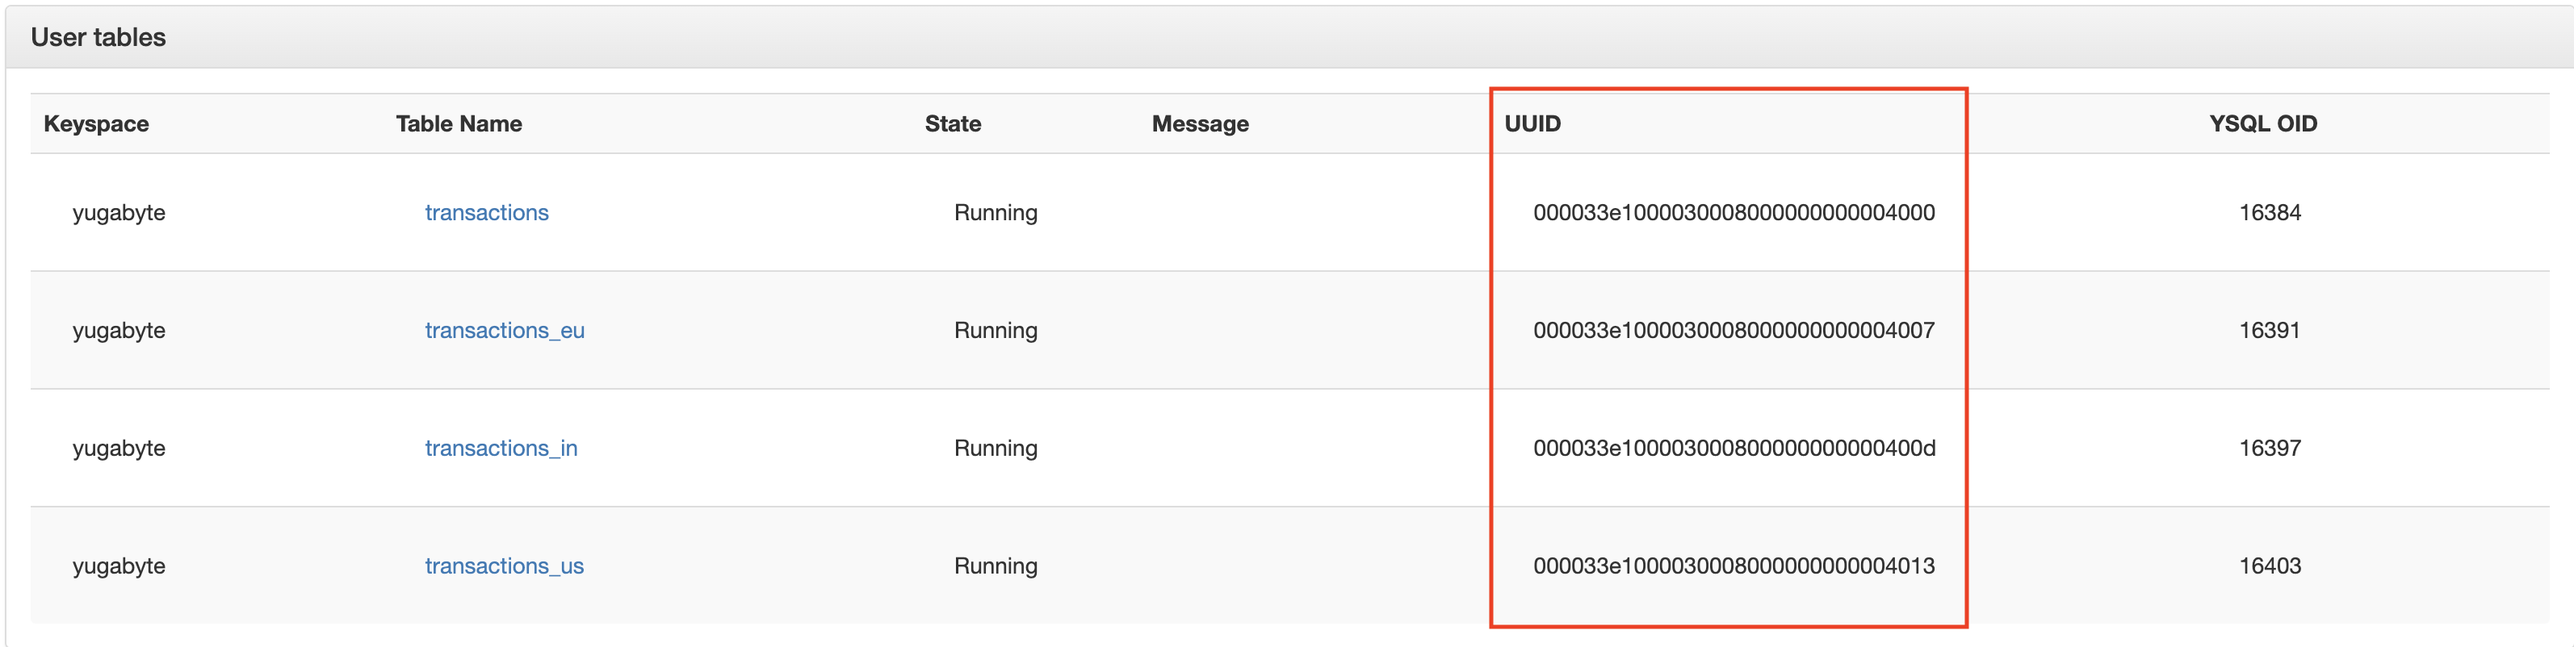
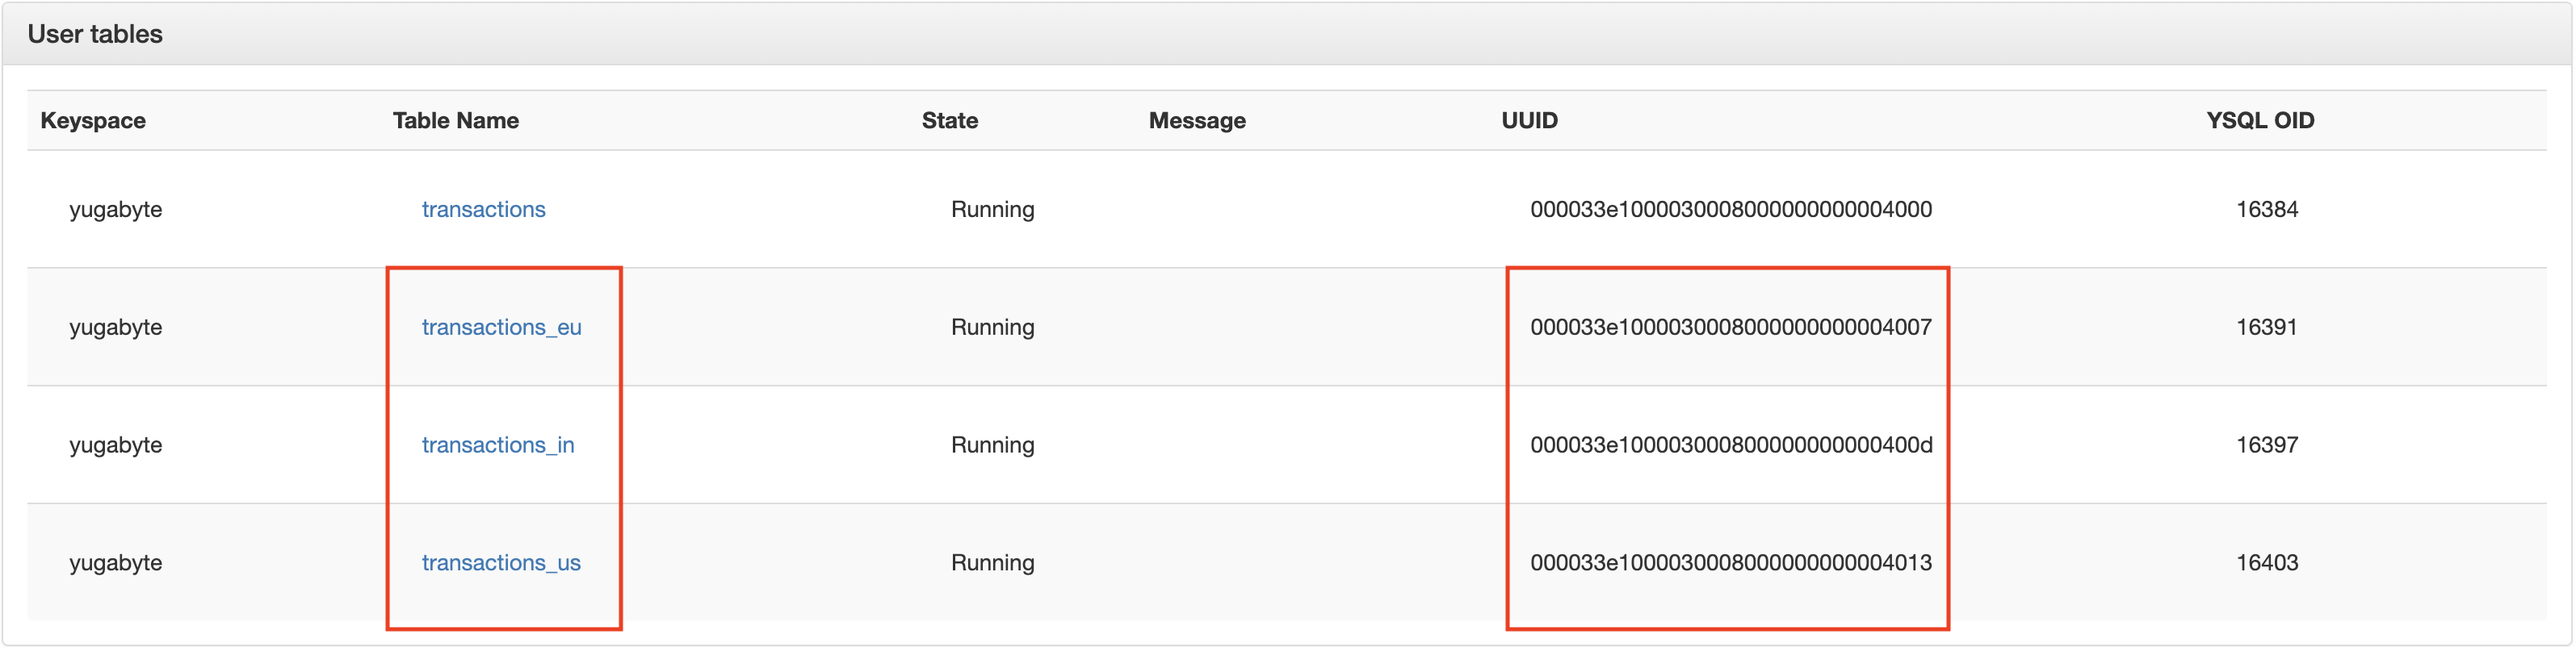
Added an image to show the table UUIDs

diff --git a/docs/content/latest/deploy/multi-dc/async-replication.md b/docs/content/latest/deploy/multi-dc/async-replication.md
@@ -247,7 +247,7 @@ CREATE TABLE transactions_us
 ### Steps to create Replication(Unidirectional):
 1. Collect child table UUIDs from source universe (partition tables, here transactions_eu, transactions_in and transactions_us) - these will be used while setting up replication. To collect table UUIDs, go to the `Tables` section in the Admin UI (127.0.0.1:7000).
 
-  ![xCluster_with_GP](docs/static/images/explore/yb_xcluster_table_uuids.png)
+  ![xCluster_with_GP](docs/static/images/explore/yb_xcluster_table_UUIDs.png)
 
 2. Run the replication setup command for the source universe:
     ```sh
